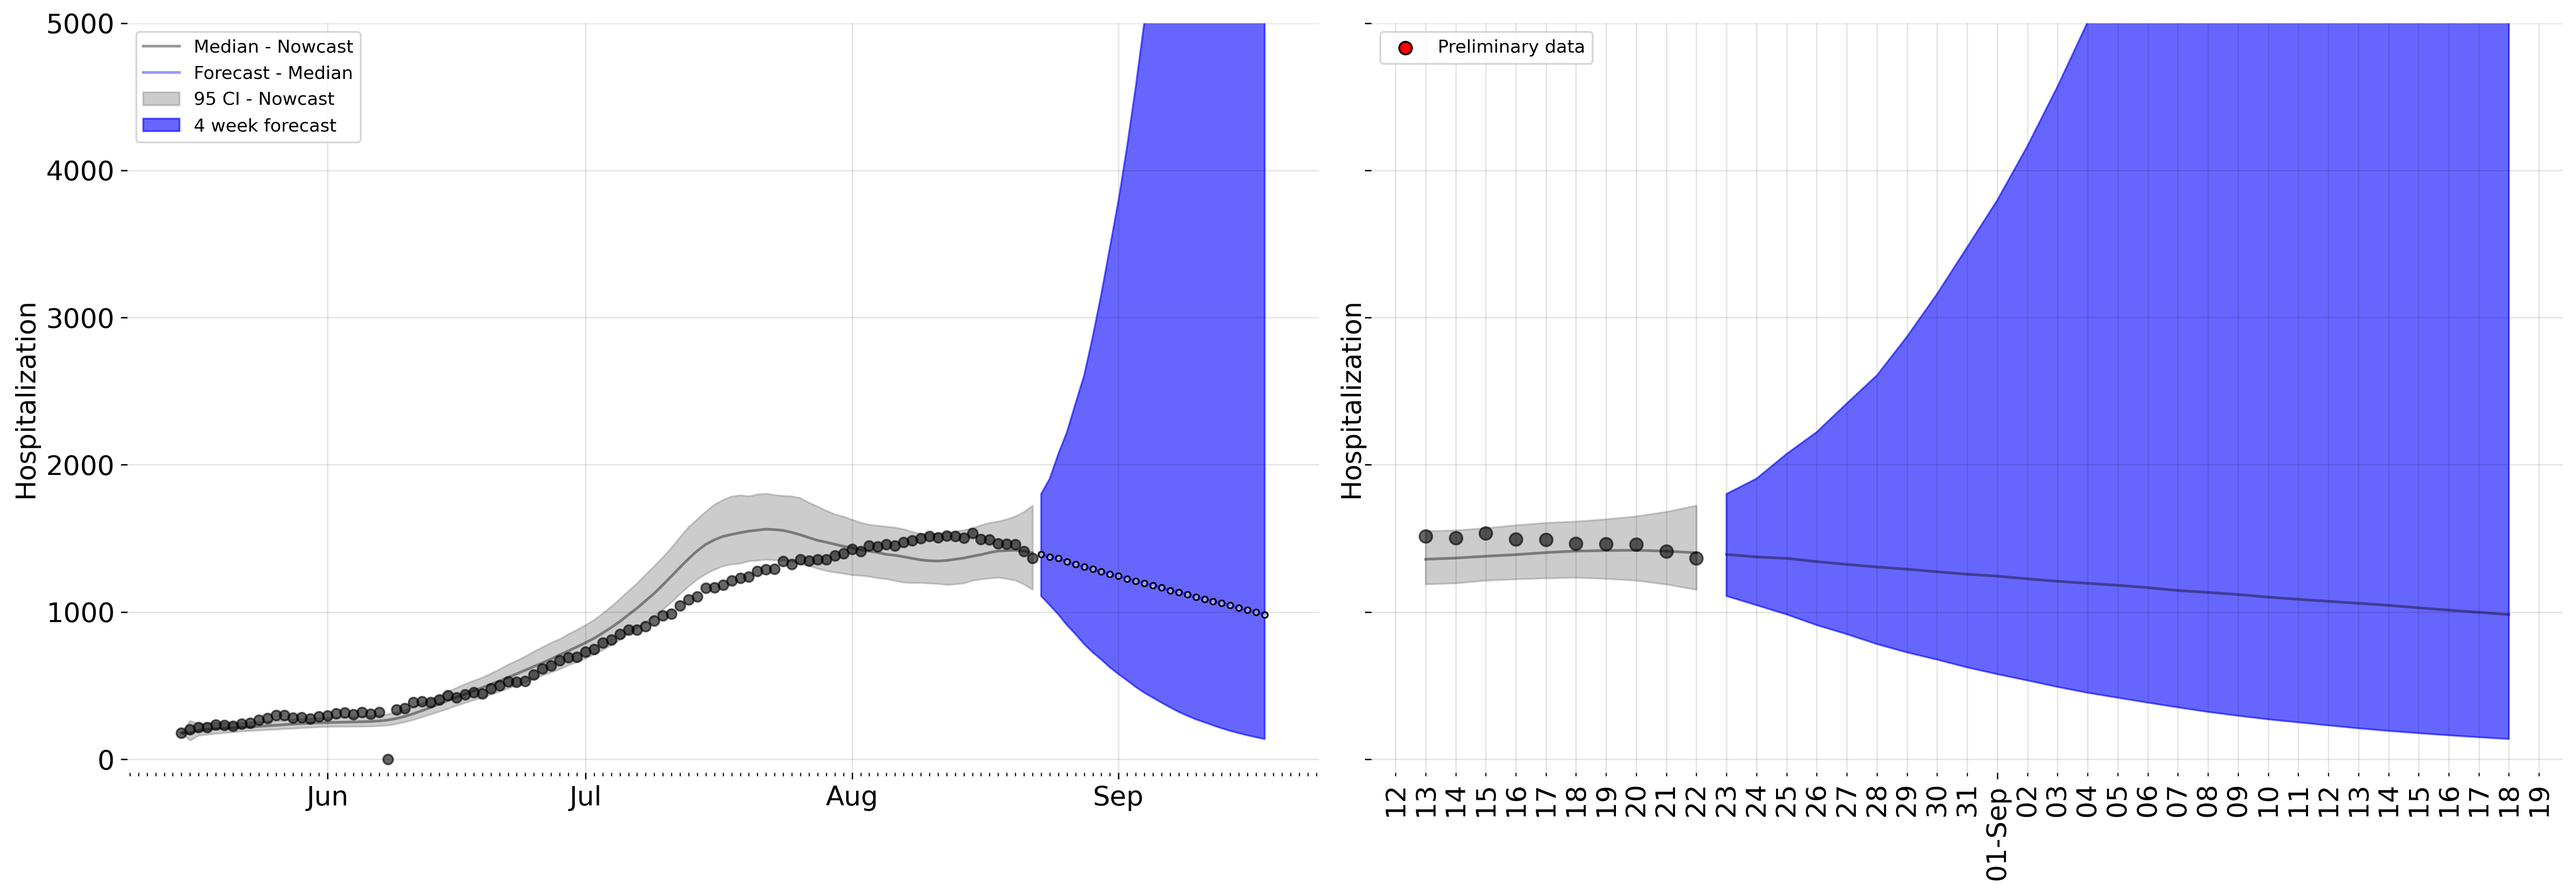
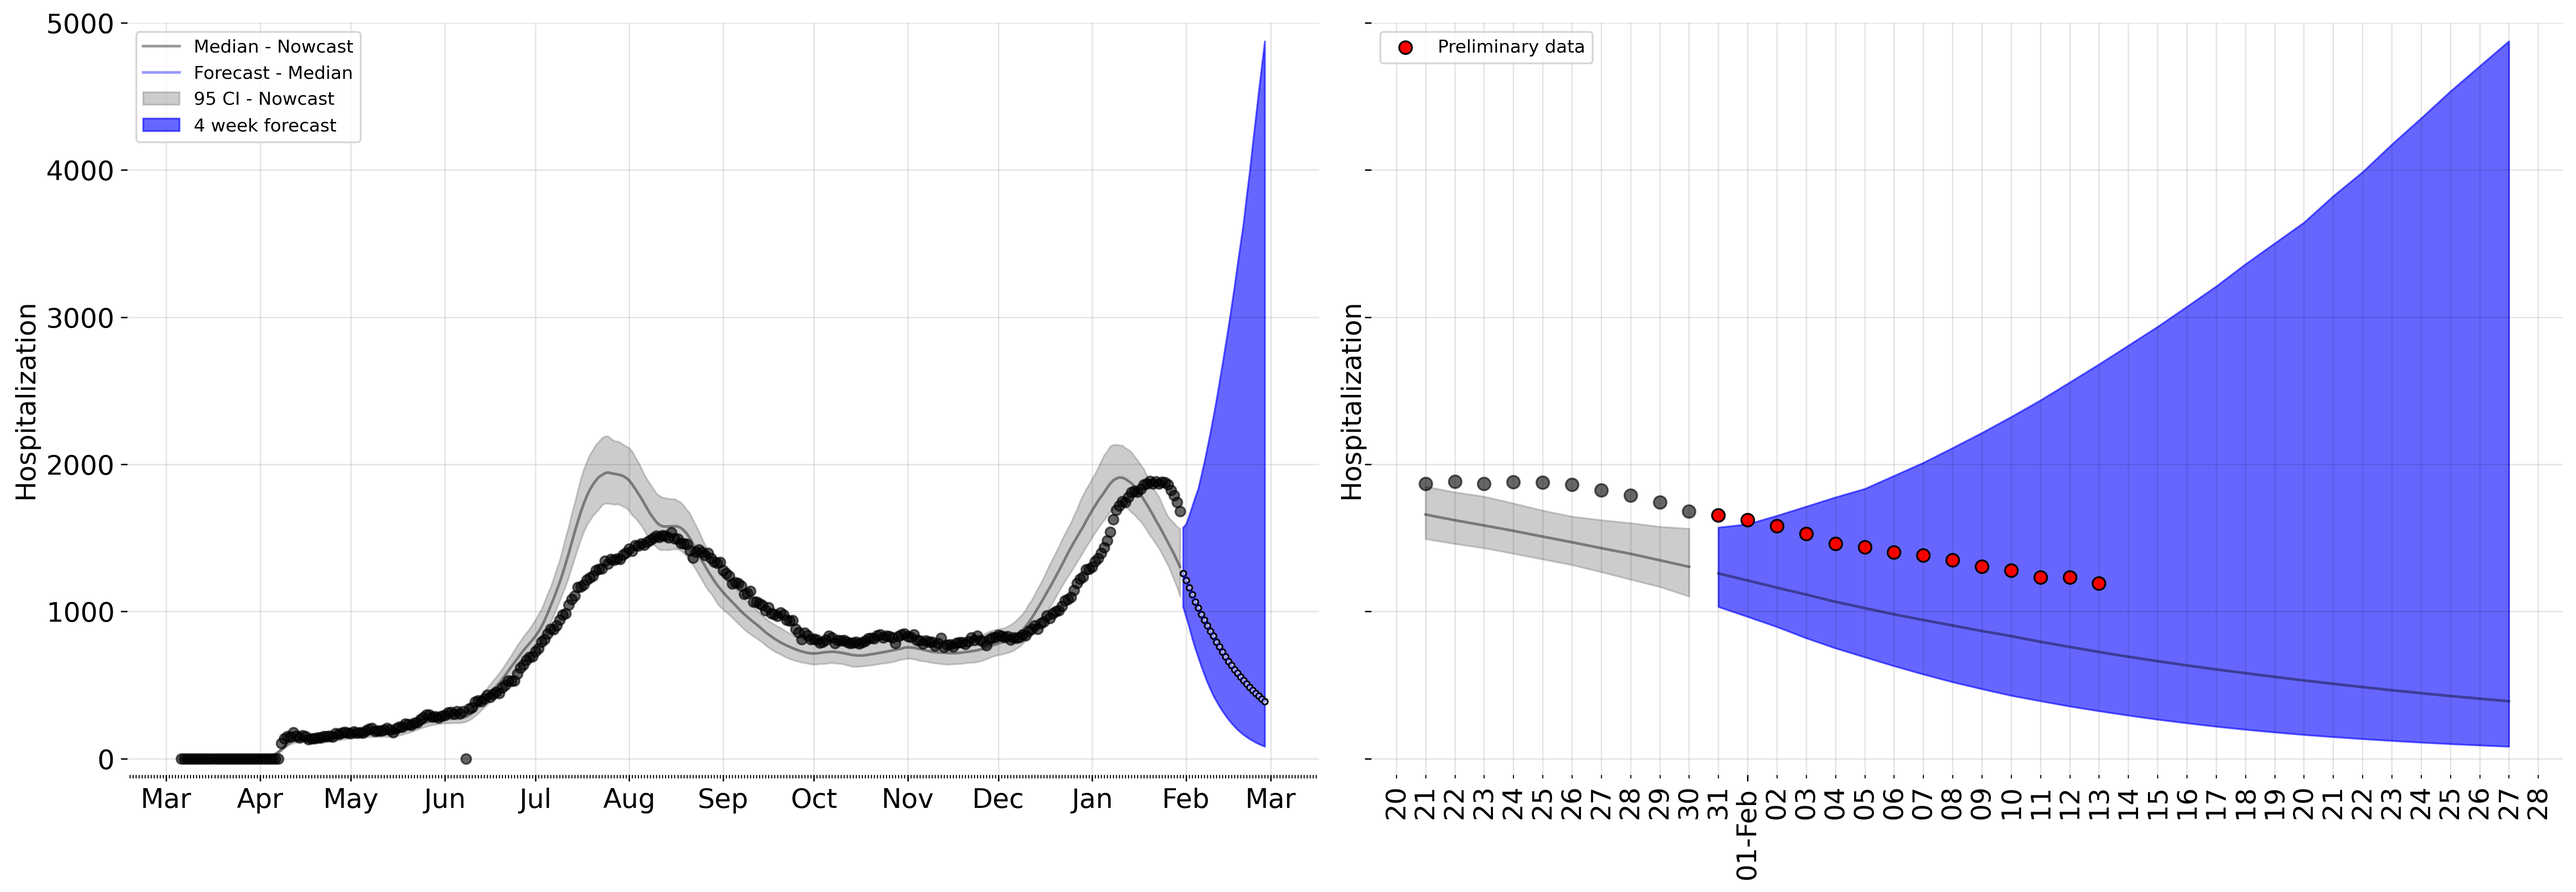
adding hospitalizations

diff --git a/estimate_h.py b/estimate_h.py
@@ -104,18 +104,17 @@ cases_fitted  = model.combine_samples(forecast_samples, f='mean_dy', use_future=
 
 from functions.samples_utils import create_df_response
 
-df_hosp   = create_df_response(hosp_fitted, time=len(data_all), date_init ='2020-05-15',  forecast_horizon=27, use_future=True)
-df_deaths = create_df_response(deaths_fitted, time=len(data_all), date_init ='2020-05-15',  forecast_horizon=27, use_future=True)
-df_cases  = create_df_response(cases_fitted, time=len(data_all), date_init ='2020-05-15',  forecast_horizon=27, use_future=True)
+df_hosp   = create_df_response(hosp_fitted, time=len(data_fit), date_init ='2020-03-06',  forecast_horizon=28, use_future=True)
+df_deaths = create_df_response(deaths_fitted, time=len(data_fit), date_init ='2020-03-06',  forecast_horizon=28, use_future=True)
+df_cases  = create_df_response(cases_fitted, time=len(data_fit), date_init ='2020-03-06',  forecast_horizon=28, use_future=True)
 
 beta_samples     = np.concatenate((np.expand_dims(samples["beta0"],-1), samples["beta"] ), axis=1)
-df_contact_rate  = create_df_response(beta_samples , time=beta_samples.shape[-1], date_init ='2020-05-15',  forecast_horizon=27, use_future=False)
+df_contact_rate  = create_df_response(beta_samples , time=beta_samples.shape[-1], date_init ='2020-03-06',  forecast_horizon=28, use_future=False)
 
 
 from functions.plot_utils import plot_fit
 from functions.plot_utils import *
 
-data_all['type'] = 'fitted'
 plot_fit(df_deaths, data_all, col_data='death',   y_lim_up = 300, y_label='Deaths', color='indianred', path_to_save='figures/mcmc_2/deaths.png')
 plot_fit(df_cases,  data_all, col_data='confirmed',  y_lim_up = 7000,  y_label='Cases', color='darksalmon', path_to_save='figures/mcmc_2/cases.png')
 plot_fit(df_hosp, data_all,   col_data='uci',   y_lim_up = 5000, y_label='Hospitalization', color='blue', path_to_save='figures/mcmc_2/hosp.png')

diff --git a/models/seirhd_model.py b/models/seirhd_model.py
@@ -452,9 +452,9 @@ class SEIRHD(SEIRHDBase):
         D0 = numpyro.sample("D0", dist.Uniform(0, 100))
 
         # Sample initial number of infected individuals
-        I0 = numpyro.sample("I0", dist.Uniform(0, 0.02*N))
-        E0 = numpyro.sample("E0", dist.Uniform(0, 0.02*N))
-        H0 = numpyro.sample("H0", dist.Uniform(0, 0.02*N))
+        I0 = numpyro.sample("I0", dist.Uniform(0, 1000))
+        E0 = numpyro.sample("E0", dist.Uniform(0, 1000))
+        H0 = numpyro.sample("H0", dist.Uniform(0, 1000))
         #D0 = numpyro.sample("D0", dist.Uniform(0, 0.02*N))
 
 
